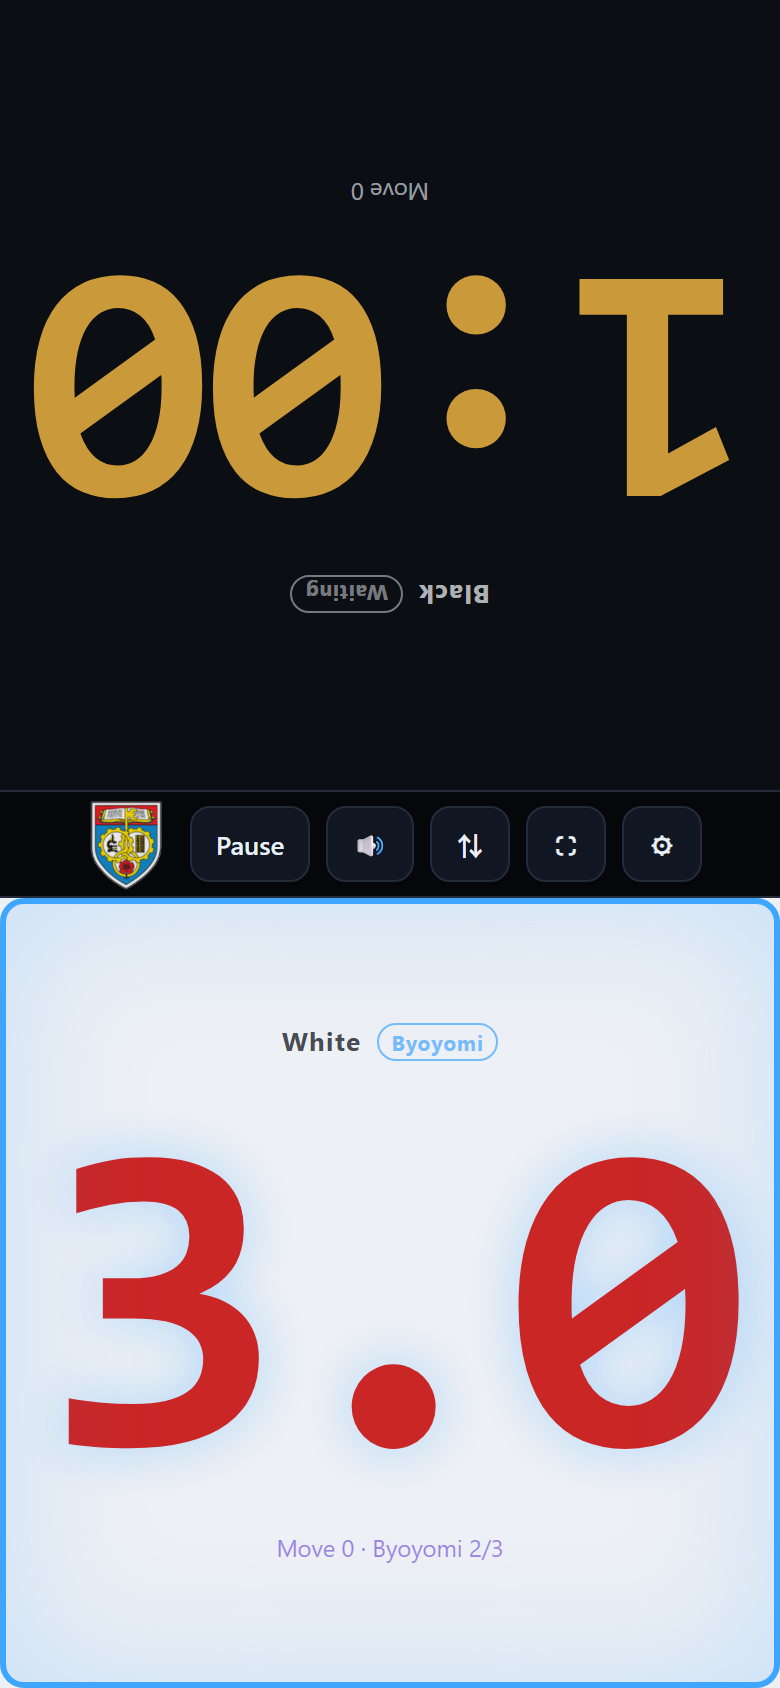
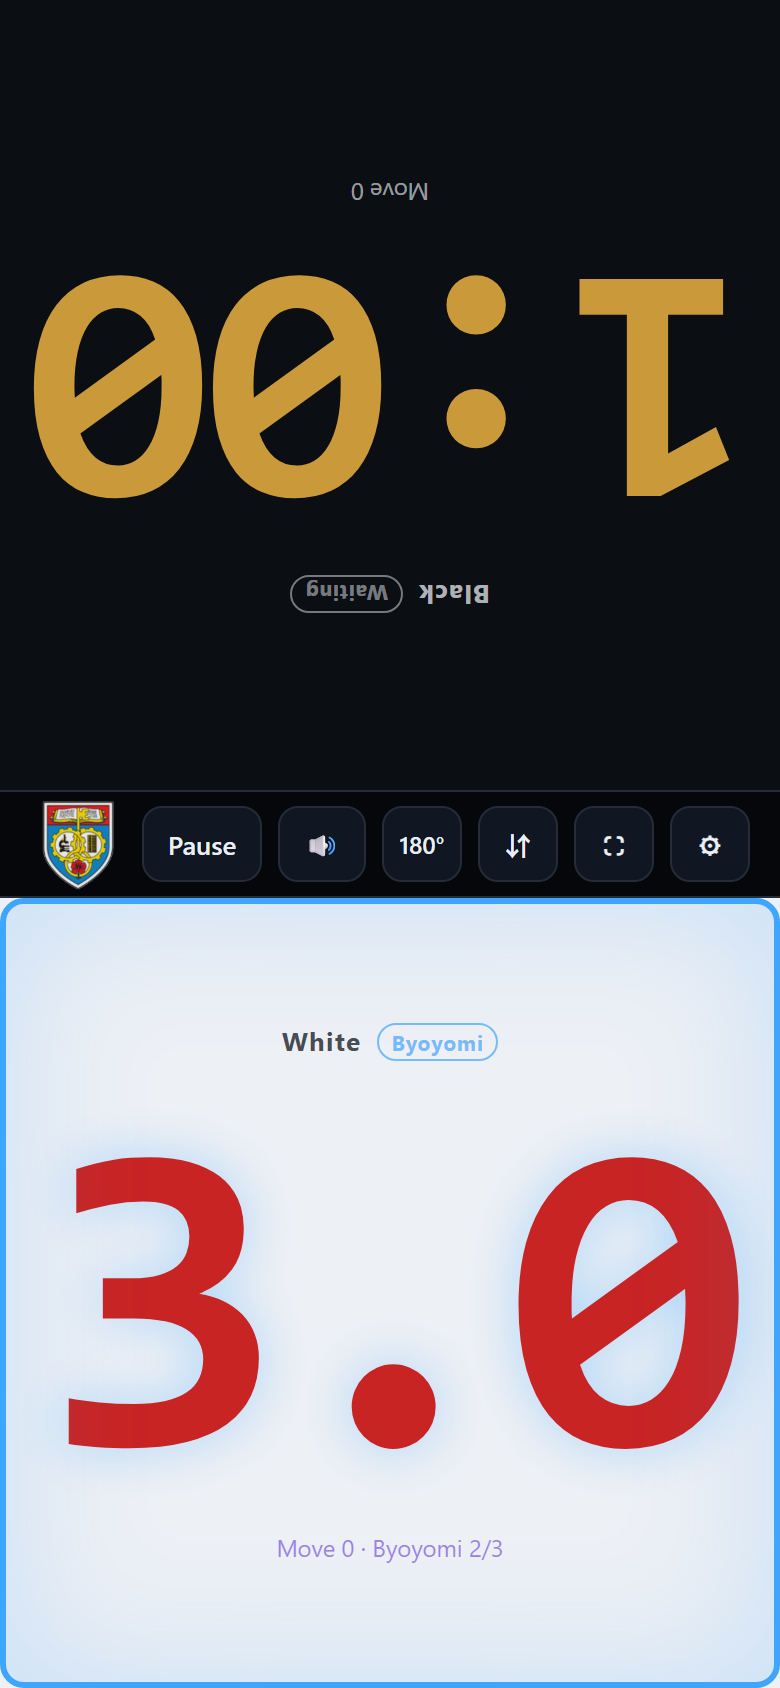
Sync the site: 180° / swap-sides toolbar, READMEs and screenshots

diff --git a/styles.css b/styles.css
@@ -483,18 +483,34 @@ kbd {
   padding: 2vmin 2vmin calc(2vmin + env(safe-area-inset-bottom));
 }
 
+/*
+ * 视觉顺序（≠ DOM 顺序）：默认黑方在前（竖屏在上、横屏在左），白方在后；操作条永远夹在中间。
+ * 「交换两侧位置」（#screen-clock.is-swapped）只改 order，不动 DOM —— DOM 顺序是
+ * 黑方面板 → 操作条 → 白方面板，挪节点会让操作条落到某一块面板的同一侧去。
+ * 三者都要写 order：只改两块面板的 order，操作条会跑到它们外面。
+ * 竖屏的 order 决定上下、横屏决定左右，同一套规则两边通用。
+ */
+.pane-b { order: 1; }
+.strip { order: 2; }
+.pane-w { order: 3; }
+
+#screen-clock.is-swapped .pane-w { order: 1; }
+#screen-clock.is-swapped .pane-b { order: 3; }
+
 .pane-w { background: var(--w-face); color: var(--w-ink); box-shadow: inset 0 0 0 1px var(--pane-edge); }
 .pane-b { background: var(--b-face); color: var(--b-ink); box-shadow: inset 0 0 0 1px var(--pane-edge); }
 
 /*
  * 对坐模式（.facing）：手机平放在两人之间时，近侧玩家看到的正常方向就是屏幕默认方向，
  * 因此需要把「对面那一块」的数字旋转 180°，两边才都读得正。
- * 竖屏布局是上下分屏，对面 = 上方面板（DOM 里的第一块），所以只需旋转 .pane:first-child。
+ * 竖屏布局是上下分屏，对面 = 视觉上排在最前的那块（= 上方那块）。注意**不能用 DOM 顺序**判断：
+ * 两块面板的位置由上面的 order 决定，「交换两侧」之后排在前面的换成白方，
+ * 所以 app.js 会把 is-far 打在视觉上第一块面板上，这里只认这个类。
  * 横屏是左右分屏，此时对面在上/下长边之外，任何单面板旋转都无法让两边同时读正，
  * 所以横屏不做旋转（适合手机立起来、或裁判/观众查看），详见 README「摆放方式」。
  */
 @media (orientation: portrait) {
-  .facing .pane:first-child .pane-inner { transform: rotate(180deg); }
+  .facing .pane.is-far .pane-inner { transform: rotate(180deg); }
 }
 
 .pane:active { filter: brightness(0.94); }
@@ -612,6 +628,14 @@ kbd {
 .icon-btn.primary { background: var(--ok); border-color: var(--ok); color: var(--ok-ink); }
 .icon-btn:disabled { opacity: 0.45; }
 .icon-btn:active { transform: translateY(1px); }
+
+/*
+ * 「180°」是四字符文本（其余按钮都是单字符图标或短单词），按 13px/12px 内距会明显偏宽：
+ * 只给这一颗收一点内距与字号（收完正好落在 .icon-btn 的 40px 最小宽度上），
+ * 六颗按钮 + logo 在窄屏上才不会把操作条撑出屏幕。
+ * 其它按钮一律不动（含横屏那条 .icon-btn 规则 —— id 选择器优先级更高，这里保持不变即可）。
+ */
+#btnRotate { padding: 0 6px; font-size: 12px; }
 
 /* 棋钟页 logo：48×48，与设置页 96×96 用的是同一个源文件 */
 .strip-logo {

diff --git a/app.js b/app.js
@@ -74,6 +74,7 @@
     presetId: '10+3x20',              // = 10+3×20（主时间 10 分钟 + 20 秒 × 3 段）
     sound: true,
     facing: true,
+    swapped: false,                   // 「交换两侧位置」：false = 默认（竖屏上黑下白 / 横屏左黑右白）
     keepAwake: true,
     lang: 'en',                       // 首次打开：英文（按钮可随时切到华文，之后记住选择）
     theme: 'dark'                     // 深色（最初那套配色）为默认
@@ -452,6 +453,7 @@
     lastTickKey = null;
 
     applyFacing();
+    applySwap();
     $('#screen-clock').classList.remove('is-paused');
     $('#overlay').hidden = true;
 
@@ -463,6 +465,28 @@
 
   function applyFacing() {
     $('#screen-clock').classList.toggle('facing', !!cfg.facing);
+  }
+
+  /**
+   * 「交换两侧位置」：只改 CSS 的 order（面板与操作条都写好了 order），**不动 DOM** ——
+   * 操作条在标记里夹在两块面板中间，挪节点会把布局弄坏。
+   * 竖屏 order 决定上下、横屏决定左右，同一套规则两边通用。
+   */
+  function applySwap() {
+    $('#screen-clock').classList.toggle('is-swapped', !!cfg.swapped);
+    applyFarPane();
+  }
+
+  /**
+   * 对坐模式要旋转的是**视觉上排在最前的那一块**（竖屏=上方、横屏=左侧）。
+   * 这跟 DOM 顺序无关（DOM 里永远是 黑 → 操作条 → 白，用的是 CSS order），
+   * 所以必须按「是否交换过」来算：交换过就是白方在前，否则黑方在前。
+   */
+  function applyFarPane() {
+    var farSide = cfg.swapped ? 'w' : 'b';
+    ['w', 'b'].forEach(function (side) {
+      paneEls[side].classList.toggle('is-far', side === farSide);
+    });
   }
 
   /**
@@ -817,6 +841,13 @@
       applyFacing();
       fitTime();
     });
+    // 交换两侧位置：和别的选项一样存进 localStorage，再来一局 / 切语言 / 换主题都保持
+    $('#btnSwap').addEventListener('click', function () {
+      cfg.swapped = !cfg.swapped;
+      saveSettings();
+      applySwap();
+      fitTime();
+    });
 
     $('#btnRematch').addEventListener('click', function () { rematch(); });
     $('#btnBackToSetup').addEventListener('click', function () { backToSetup(); });
@@ -883,6 +914,7 @@
     applyLanguage(lang);      // 应用 data-i18n 标记 + 所有动态文案（含按语言重画预设/摘要）
     bindEvents();
     applyFacing();
+    applySwap();
     timeEls.w.textContent = E.formatTime(engineConfig().baseMs);
     timeEls.b.textContent = E.formatTime(engineConfig().baseMs);
     showScreen('setup');

diff --git a/index.html b/index.html
@@ -152,7 +152,10 @@
       <!-- 暂停 / 继续：开局靠拍面板（拍对侧 → 自己的钟开始走），所以未开表时这颗按钮是隐藏的 -->
       <button type="button" class="icon-btn" id="btnToggle" hidden><span id="btnToggleLabel" data-i18n="clock.pause">Pause</span></button>
       <button type="button" class="icon-btn" id="btnSound" title="Turn sound off" aria-pressed="true" data-i18n-title="clock.sound.off">🔊</button>
-      <button type="button" class="icon-btn" id="btnRotate" title="Facing mode" data-i18n-title="clock.facing.title">⇅</button>
+      <!-- 180°：对坐模式开关，把「对面」那块面板整体转 180°（只影响数字朝向） -->
+      <button type="button" class="icon-btn" id="btnRotate" title="Facing mode" data-i18n-title="clock.facing.title">180°</button>
+      <!-- ⇵：交换两侧在屏幕上的位置（不改朝向，只改上下/左右谁在哪一边） -->
+      <button type="button" class="icon-btn" id="btnSwap" title="Swap sides" data-i18n-title="clock.swap.title">⇵</button>
       <button type="button" class="icon-btn" id="btnFull" title="Fullscreen" data-i18n-title="clock.full.title">⛶</button>
       <button type="button" class="icon-btn" id="btnSetup" title="Back to setup" data-i18n-title="clock.setup.title">⚙</button>
     </div>

diff --git a/i18n.js b/i18n.js
@@ -85,6 +85,7 @@
       'clock.sound.on': '打开声音',
       'clock.sound.off': '关闭声音',
       'clock.facing.title': '对坐模式开关',
+      'clock.swap.title': '交换两侧位置',
       'clock.full.title': '全屏',
       'clock.setup.title': '返回设置',
       'moves.n': '第 {n} 步',
@@ -179,6 +180,7 @@
       'clock.sound.on': 'Turn sound on',
       'clock.sound.off': 'Turn sound off',
       'clock.facing.title': 'Facing mode',
+      'clock.swap.title': 'Swap sides',
       'clock.full.title': 'Fullscreen',
       'clock.setup.title': 'Back to setup',
       'moves.n': 'Move {n}',

diff --git a/README.md b/README.md
@@ -50,7 +50,7 @@ actually uses:
 | Pause / resume (for the arbiter taking notation or settling a dispute) | ✅ | Pausing banks the exact time (and byoyomi periods) used on the current move |
 | Reset / rematch (swapping colours) | ✅ | One tap starts the next game |
 | Sound switch | ✅ | Move beep + time-up alarm (synthesised live, no audio files) |
-| Two-sided facing layout (both players read their own side) | ✅ | “Facing mode”, see section 5 |
+| Two-sided facing layout (both players read their own side) | ✅ | “Facing mode” (`180°`) turns the far panel’s digits around; “Swap sides” (`⇵`) moves each colour to the other half — see section 5 |
 | Keep screen awake | ✅ | Wake Lock API, the screen stays on during a game |
 | Replaceable logo / favicon | ✅ | Overwrite `assets/logo-source.png`, run `node tools/export-icons.js`, see section 7 |
 | Battery indicator | ❌ | The phone has one; no need to duplicate it |
@@ -126,7 +126,8 @@ The whole folder is static: drop it on any static host, **no backend, no databas
 | --- | --- |
 | Pause / Resume | Only shown while a game is running; **no Start button** — the clock is started by tapping a panel |
 | 🔊 / 🔇 | Sound switch (move beep + time-up alarm) |
-| ⇅ | Facing mode (see section 5) |
+| 180° | Facing mode: rotate the far panel 180° so the player sitting opposite reads it upright (see section 5) |
+| ⇵ | Swap sides: swap which screen position each colour occupies — Black top / White bottom ⇄ White top / Black bottom in portrait, Black left / White right ⇄ White left / Black right in landscape (see section 5) |
 | ⛶ | Fullscreen (iOS Safari has no web fullscreen — use “Add to Home Screen” instead) |
 | ⚙ | Back to setup (asks for confirmation during a game) |
 
@@ -224,19 +225,19 @@ the table. The usual Go “30 seconds per move” byoyomi ticks audibly for the 
 
 ---
 
-## 5. Placement (facing mode)
+## 5. Placement (facing mode · swap sides)
 
 Lay the phone flat between the two players, screen up:
 
 ```
         Black player (opposite side)
-   ┌──────────────────┐
-   │   ███ Black 2:57  │  ← the top panel is rotated 180°, upright for the far side
-   ├──────────────────┤
-   │  ▣ Pause 🔊 ⇅ ⛶ ⚙ │  ← toolbar: logo on the left, reachable from both sides
-   ├──────────────────┤
-   │   White 3:01 ███  │  ← the bottom panel is not rotated, upright for the near side
-   └──────────────────┘
+   ┌───────────────────────┐
+   │    ███ Black 2:57     │  ← the top panel is rotated 180°, upright for the far side
+   ├───────────────────────┤
+   │ ▣ 180° ⇵ Pause 🔊 ⛶ ⚙ │  ← toolbar: logo on the left, reachable from both sides
+   ├───────────────────────┤
+   │    White 3:01 ███     │  ← the bottom panel is not rotated, upright for the near side
+   └───────────────────────┘
         White player (near side)
 ```
 
@@ -249,6 +250,24 @@ Lay the phone flat between the two players, screen up:
 
 The clock is started from the panels themselves: tap the far side's half (Black, when White is to move first) and
 the other side's clock begins. There is no Start button to press.
+
+### `180°` (facing mode) vs `⇵` (swap sides) — not the same thing
+
+| Button | What it changes | Portrait | Landscape |
+| --- | --- | --- | --- |
+| **`180°`** | *Which way the digits point*: the far panel is turned 180° so the player opposite reads it upright | Top panel is rotated | Rotation is disabled (both sides would have to be) |
+| **`⇵`** | *Which screen position each colour occupies*: the two sides trade halves, digits stay as they are | Black top / White bottom ⇄ White top / Black bottom | Black left / White right ⇄ White left / Black right |
+
+* Use **`180°`** when two players sit facing each other and the far half must be readable: it does not move
+  anybody, it only turns the far panel's digits around.
+* Use **`⇵`** when the colours ended up on the wrong halves — e.g. the White player is sitting on the side of the
+  table where Black is displayed. The panel contents, the tap areas and the keyboard keys all follow the side
+  (`A`/`←` is always White), only the position on screen changes. Nothing is reordered in the page: the halves are
+  placed with CSS `order`, which is what makes it work in portrait and landscape alike.
+* They are independent, and they combine: with facing mode on, **after a swap the *other* panel is the rotated
+  one** (portrait), because the rotated panel is always the one visually on top.
+* The choice is stored with your other settings (`localStorage`), so a **rematch**, a language switch or a theme
+  change does not undo it.
 
 ---
 
@@ -310,7 +329,7 @@ ChessClock/
 ├── serve.js              zero-dependency static server (for phones on the LAN)
 ├── tests/
 │   ├── engine.test.js    timing engine tests (30)
-│   ├── project.test.js   project-integrity tests (17: i18n / themes / defaults / presets / scenes / start-up / icons …)
+│   ├── project.test.js   project-integrity tests (19: i18n / themes / defaults / presets / scenes / start-up / facing geometry / icons …)
 │   ├── run.js            single-process test entry point
 │   └── visual/           headless-Chrome visual rig (screenshots) + out/*.png artefacts
 ├── Defold/               the Defold (Lua) port: native apps and HTML5, see Defold/README.md
@@ -318,7 +337,7 @@ ChessClock/
 ```
 
 ```bash
-npm test        # 47 tests: timing logic + page/icon/bilingual/theme/defaults/screenshot-scene integrity
+npm test        # 49 tests: timing logic + page/icon/bilingual/theme/defaults/screenshot-scene integrity
 npm start       # start the LAN server, open it on your phone
 npm run shots   # re-shoot every scene with headless Chrome (needs Chrome/Edge installed)
 ```
@@ -341,7 +360,9 @@ periods first, pressing the clock after a flag cannot “rescue” time, a page 
 the correct side, time formatting (hours / minutes / 0.1 s), the logo master and both PNG pixel sizes, identical
 key sets across both languages with every used key present, and no hard-coded copy left in `app.js`. It also pins
 the start-up rule: **there is no Start button**, the first panel tap starts the *other* side's clock
-(tap Black → White runs), and that tap does not count as a move.
+(tap Black → White runs), and that tap does not count as a move. It also pins the facing geometry: the rotated panel
+is always the one visually on top, so after a `⇵` swap it is the other colour — and the swap itself is pure CSS
+`order` (the DOM is never reordered, the toolbar stays between the two halves).
 
 ### Bilingual UI (English / 华文)
 

diff --git a/README_CN.md b/README_CN.md
@@ -44,7 +44,7 @@
 | 暂停 / 继续（裁判记谱、处理争议时用） | ✅ | 暂停会把这一手已用时间（含读秒段数）精确入账 |
 | 复位 / 再来一局（自动交换先后手） | ✅ | 一局结束一键开下一局 |
 | 声音开关 | ✅ | 走子提示音 + 超时警报（现场合成，无音频文件） |
-| 双面朝向（两位选手对坐各看一面） | ✅ | 「对坐模式」，见第五节 |
+| 双面朝向（两位选手对坐各看一面） | ✅ | 「对坐模式」（`180°`）把对面那块面板的数字转正；「交换两侧」（`⇵`）把双方换到另外半屏，见第五节 |
 | 屏幕常亮 | ✅ | Wake Lock API，对局中不熄屏 |
 | 可替换的图标 / favicon | ✅ | 覆盖 `assets/logo-source.png` 后跑 `node tools/export-icons.js` 重出各尺寸，见第七节 |
 | 电池电量指示 | ❌ | 手机自带，不必重复 |
@@ -111,7 +111,8 @@ node serve.js            # 默认 8080 端口；也可 PORT=8081 node serve.js
 | --- | --- |
 | 暂停 / 继续 | 只在对局进行中出现；**没有「开始」按钮** —— 开表靠拍面板 |
 | 🔊 / 🔇 | 声音开关（走子音 + 超时警报） |
-| ⇅ | 对坐模式开关（见第五节） |
+| 180° | 对坐模式：把对面那块面板整体旋转 180°，让坐在对面的选手读正（见第五节） |
+| ⇵ | 交换两侧位置：双方在屏幕上换半边 —— 竖屏「黑上白下 ⇄ 白上黑下」，横屏「黑左白右 ⇄ 白左黑右」（见第五节） |
 | ⛶ | 全屏（iOS Safari 不支持网页全屏，用"添加到主屏幕"代替） |
 | ⚙ | 返回设置（对局中会二次确认） |
 
@@ -198,19 +199,19 @@ Byoyomi 模式，而且**首次打开就是这套默认值**（英文 + Byoyomi 
 
 ---
 
-## 五、摆放方式（对坐模式）
+## 五、摆放方式（对坐模式 · 交换两侧）
 
 手机平放在两位选手之间，屏幕朝上：
 
 ```
         黑方选手（对面）
-   ┌──────────────────┐
-   │   ███ 黑方 2:57   │  ← 上方面板内容旋转 180°，对面看是正的
-   ├──────────────────┤
-   │  ▣ 暂停 🔊 ⇅ ⛶ ⚙  │  ← 操作条：最左边是 logo，左右两侧都够得着
-   ├──────────────────┤
-   │   白方 3:01 ███   │  ← 下方面板不旋转，近侧选手看是正的
-   └──────────────────┘
+   ┌───────────────────────┐
+   │    ███ 黑方 2:57      │  ← 上方面板内容旋转 180°，对面看是正的
+   ├───────────────────────┤
+   │  ▣ 180° ⇵ 暂停 🔊 ⛶ ⚙ │  ← 操作条：最左边是 logo，左右两侧都够得着
+   ├───────────────────────┤
+   │    白方 3:01 ███      │  ← 下方面板不旋转，近侧选手看是正的
+   └───────────────────────┘
         白方选手（近侧）
 ```
 
@@ -218,6 +219,18 @@ Byoyomi 模式，而且**首次打开就是这套默认值**（英文 + Byoyomi 
 * **横屏**：左右分屏（黑左白右），**不做旋转**。因为横屏时两块面板落在同一条视线上，任何单面板旋转都无法让两位选手同时读正 —— 横屏更适合把手机立起来、或由裁判与观众查看。
 
 开局也由面板完成：拍**对面那一半**（白先走时就是黑方那一半），对侧的钟随即开始走。没有「开始」按钮要按。
+
+### `180°`（对坐模式）与 `⇵`（交换两侧）不是一回事
+
+| 按钮 | 改变的是什么 | 竖屏 | 横屏 |
+| --- | --- | --- | --- |
+| **`180°`** | *数字朝向*：把对面那块面板整体转 180°，让对面的选手读正 | 上方面板旋转 | 不旋转（两块都要照顾，做不到） |
+| **`⇵`** | *双方各占屏幕的哪一半*：两边换位置，数字朝向不变 | 黑上白下 ⇄ 白上黑下 | 黑左白右 ⇄ 白左黑右 |
+
+* 两人对坐、需要对面那块看得正 → 用 **`180°`**：它不挪动任何人，只把对面那块面板的数字转过来。
+* 双方坐错了半边（例如白方选手坐在了显示黑方的那一侧）→ 用 **`⇵`**：面板内容、拍击区域、键盘按键都跟着「方」走（`A`/`←` 永远是白方），只是屏幕上的位置互换。页面**没有重排 DOM**：两块面板是用 CSS `order` 排的，所以竖屏横屏都同样有效。
+* 两者互不影响、可以叠加：开着对坐模式时，**交换过之后被旋转的就是另一块面板**（竖屏），因为被旋转的永远是视觉上排在最前的那一块。
+* 这个选择和其他设置一起存在 `localStorage` 里，所以**再来一局**、切语言、换主题都不会把它重置。
 
 ---
 
@@ -260,7 +273,7 @@ ChessClock/
 ├── serve.js              零依赖静态服务器（局域网给手机用）
 ├── tests/
 │   ├── engine.test.js    计时引擎测试（30 项）
-│   ├── project.test.js   项目完整性测试（17 项：双语 / 主题 / 默认值 / 预设 / 场景 / 开局方式 / 图标…）
+│   ├── project.test.js   项目完整性测试（19 项：双语 / 主题 / 默认值 / 预设 / 场景 / 开局方式 / 对坐几何 / 图标…）
 │   ├── run.js            单进程测试入口
 │   └── visual/           无头 Chrome 视觉验证台（截图）＋ out/*.png 截图产物
 ├── Defold/               Defold（Lua）移植版：原生应用 / HTML5 都能出，见 Defold/README.md
@@ -268,7 +281,7 @@ ChessClock/
 ```
 
 ```bash
-npm test        # 47 项测试：计时逻辑 + 页面/图标/双语/主题/默认值/截图场景完整性
+npm test        # 49 项测试：计时逻辑 + 页面/图标/双语/主题/默认值/截图场景完整性
 npm start       # 启动局域网服务，手机即可访问
 npm run shots   # 用无头 Chrome 把各场景重新截图（需要本机有 Chrome/Edge）
 ```
@@ -289,6 +302,8 @@ powershell -ExecutionPolicy Bypass -File tests/visual/shoot.ps1 -Only 'setup' -T
 时间格式（小时 / 分钟 / 0.1 秒）、logo 源文件与两处 PNG 的像素尺寸、
 中英词条 key 完全一致且页面/JS 用到的 key 都存在、app.js 里不再有写死的文案。
 另外还钉住了**开局方式**：没有「开始」按钮、第一下拍面板是让*对侧*开始走（拍黑方 → 白方走）、且这一下不算步数。
+还钉住了对坐几何：被旋转的永远是视觉上排在最前的那块面板，所以按过 `⇵` 之后转的就是另一方；而交换本身只是 CSS
+`order`（绝不重排 DOM，操作条始终夹在两块面板之间）。
 
 ### 双语界面（华文 / English）
 
